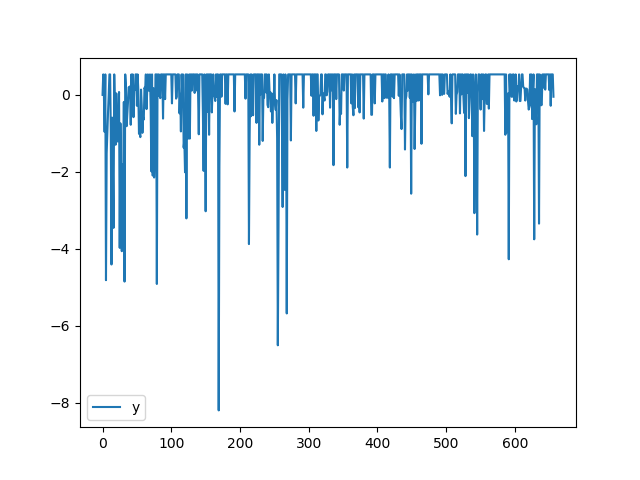
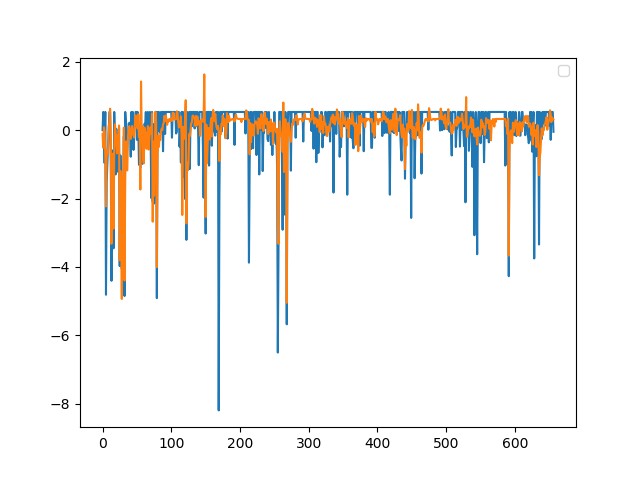
add

diff --git a/AIStudy/threshold.py b/AIStudy/threshold.py
@@ -81,17 +81,18 @@ def load():
 	saver = tf.train.Saver()
 	with tf.Session() as sess:
 		saver.restore(sess,'ckpt/8-6.ckpt')
-		for i in range(100):
-			print(scaler.inverse_transform(train_y[i]),scaler.inverse_transform(sess.run(pred,feed_dict={X:train_x[i:i+1]})))
-		
-
+		yy = []
+		for i in range(len(train_y)):
+			yy.extend(sess.run(pred,feed_dict={X:train_x[i:i+1]}))
+		yy = array(yy).reshape([-1])
+		plt.plot(train_y)
+		plt.plot(yy)
+		plt.legend('y','yy')
+		plt.savefig('pic/lstm.png')
 
 train_x,train_y,scaler = load_data()
 #train()
-#load()
-plt.plot(train_y)
-plt.legend('y')
-plt.savefig('pic/lstm.png')
+load()
 
 #load_data()
 
